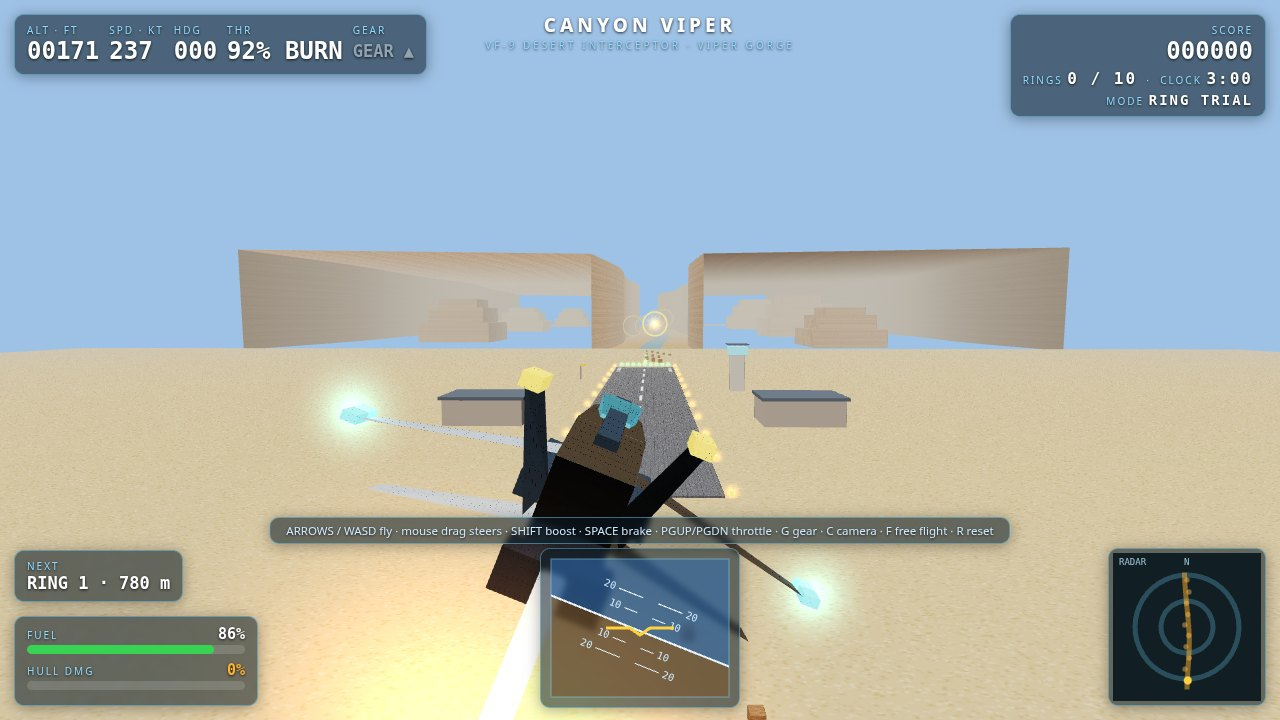
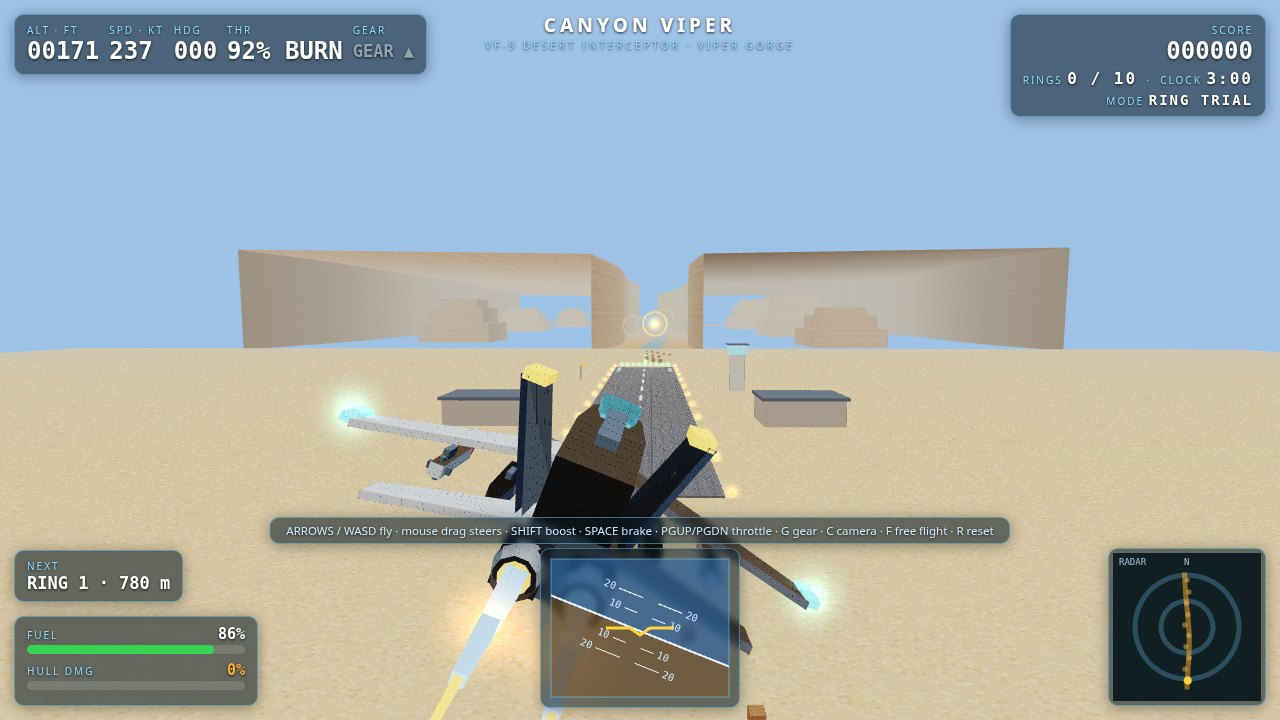
VF-9 geometry pass: thick slab wings, canted fins, nozzle rings, under-wing stores, tight twin plume cones

Changed region(s): [[0.1875, 0.4889, 0.6562, 1.0], [0.5625, 0.8556, 0.5938, 0.9167], [0.25, 0.5194, 0.2812, 0.55]]

diff --git a/game/src/viper-aircraft.js b/game/src/viper-aircraft.js
@@ -6,7 +6,7 @@
 // Metalness/roughness + the procedural metal texture give it a PBR sheen.
 'use strict';
 
-const HULL = [0.85, 0.9, 0.95], TRIM = [0.13, 0.16, 0.2], CYAN = [0.25, 0.95, 1.0];
+const HULL = [0.85, 0.9, 0.95], TRIM = [0.26, 0.31, 0.38], CYAN = [0.25, 0.95, 1.0];
 const GLASS = [0.3, 0.75, 0.95], AMBER = [1.0, 0.62, 0.15];
 
 function buildJet(gl, metalTex) {
@@ -24,21 +24,62 @@ function buildJet(gl, metalTex) {
   // Canopy: tinted glass frustum with emissive instrument spill.
   b.frustum(-3.4, 0.95, 0.5, -1.9, 1.15, 0.72, 0.88, 0.92, GLASS, { rough: 0.08, metal: 0.9, emissive: 0.22 });
   b.frustum(-1.9, 1.15, 0.72, -0.5, 0.8, 0.4, 0.92, 0.8, GLASS, { rough: 0.08, metal: 0.9, emissive: 0.22 });
-  // Wings: swept, slightly drooped; cyan navigation lights ride the tips.
+  // Wings with REAL chord thickness: a slab() is a top face in bright
+  // silver-slate, a darker underside, and bevelled leading/trailing/tip
+  // edges — so from behind the wing reads as solid metal, never a razor.
+  const SLATE = [0.98, 1.0, 1.05], UNDER = [0.32, 0.37, 0.44];
+  const slab = (a, bq, c, d, t, opt) => {
+    const dn = (p) => [p[0], p[1] - t, p[2]];
+    b.quad(a, bq, c, d, SLATE, opt);
+    b.quad(dn(d), dn(c), dn(bq), dn(a), UNDER, opt);
+    b.quad(dn(a), dn(bq), bq, a, SLATE, opt);
+    b.quad(dn(c), dn(d), d, c, SLATE, opt);
+    b.quad(dn(bq), dn(c), c, bq, SLATE, opt);
+  };
   for (const s of [-1, 1]) {
-    b.quad([s * 0.7, -0.05, -0.6], [s * 4.9, -0.5, 1.9], [s * 4.9, -0.42, 2.6], [s * 0.7, 0.05, 0.9], HULL, M);
-    b.quad([s * 0.7, 0.05, 0.9], [s * 4.9, -0.42, 2.6], [s * 4.9, -0.5, 1.9], [s * 0.7, -0.05, -0.6], TRIM, M);
-    b.box(s * 4.95, -0.42, 2.25, 0.34, 0.2, 0.8, CYAN, { emissive: 1.0 });
-    b.halo(s * 5.1, -0.42, 2.25, 1.5, [0.3, 0.9, 1.0]);
-    // Tailplanes + twin canted fins with amber tips.
-    b.quad([s * 0.55, 0.1, 4.6], [s * 2.7, 0.02, 5.9], [s * 2.7, 0.1, 6.4], [s * 0.55, 0.18, 5.6], HULL, M);
-    b.quad([s * 0.62, 0.3, 4.3], [s * 1.15, 2.15, 5.6], [s * 1.3, 2.2, 6.3], [s * 0.72, 0.35, 5.9], TRIM, M);
-    b.box(s * 1.22, 2.2, 5.95, 0.3, 0.22, 0.7, AMBER, { emissive: 0.9 });
+    // Main delta wing (root chord 1.7 m, tip chord 0.9 m, 0.17 m thick).
+    slab([s * 0.7, -0.02, -0.7], [s * 4.9, -0.48, 1.8], [s * 4.9, -0.42, 2.7], [s * 0.7, 0.04, 1.0], 0.17, M);
+    b.box(s * 4.98, -0.45, 2.25, 0.3, 0.18, 0.8, CYAN, { emissive: 1.0 });
+    b.halo(s * 5.1, -0.45, 2.25, 1.1, [0.3, 0.9, 1.0]);
+    // Horizontal tailplane, also a slab.
+    slab([s * 0.55, 0.12, 4.6], [s * 2.75, 0.04, 5.9], [s * 2.75, 0.08, 6.45], [s * 0.55, 0.18, 5.6], 0.12, M);
+    // Twin fins: tapered, canted ~18° outward (top leans away from centre),
+    // built as two faces + a cap so they have thickness from behind.
+    const fin = [[s * 0.60, 0.30, 4.25], [s * 1.06, 2.2, 5.5], [s * 1.28, 2.26, 6.3], [s * 0.72, 0.35, 5.95]];
+    const off = (p) => [p[0] + s * 0.1, p[1], p[2]];
+    b.quad(fin[0], fin[1], fin[2], fin[3], TRIM, M);
+    b.quad(off(fin[3]), off(fin[2]), off(fin[1]), off(fin[0]), TRIM, M);
+    b.quad(fin[1], off(fin[1]), off(fin[2]), fin[2], TRIM, M);
+    b.box(s * 1.19, 2.28, 5.9, 0.34, 0.16, 0.75, AMBER, { emissive: 0.9 });
+    // Under-wing stores: an outboard missile and an inboard drop tank,
+    // authored around the origin then absorbed at their outboard stations.
+    b.box(s * 3.1, -0.72, 1.6, 0.14, 0.3, 0.5, TRIM, M);
+    b.box(s * 1.7, -0.7, 1.5, 0.14, 0.28, 0.5, TRIM, M);
+    const missile = new GeoBuilder();
+    missile.frustum(0.3, 0.3, 0.3, 2.2, 0.3, 0.3, -0.95, -0.95, SLATE, M);
+    missile.frustum(-0.55, 0.04, 0.04, 0.3, 0.3, 0.3, -0.95, -0.95, [0.9, 0.3, 0.15], M); // nose cone, forward
+    missile.box(0, -0.95, 1.95, 0.52, 0.16, 0.1, TRIM, M);   // rear fins
+    missile.box(0, -0.95, 1.95, 0.1, 0.52, 0.16, TRIM, M);
+    b.absorb(missile, s * 3.1, 0, 0);
+    const tank = new GeoBuilder();
+    tank.frustum(-0.15, 0.1, 0.1, 0.5, 0.46, 0.46, -0.92, -0.92, UNDER, M);  // rounded nose
+    tank.frustum(0.5, 0.46, 0.46, 2.4, 0.4, 0.4, -0.92, -0.92, UNDER, M);
+    tank.frustum(2.4, 0.4, 0.4, 2.9, 0.1, 0.1, -0.92, -0.92, UNDER, M);
+    b.absorb(tank, s * 1.7, 0, 0);
   }
   // Intakes under the wing roots.
   for (const s of [-1, 1]) b.box(s * 1.05, -0.55, 0.4, 0.8, 0.55, 3.4, TRIM, M);
-  // Twin burner cans.
-  for (const s of [-1, 1]) b.box(s * 0.42, 0.12, 6.85, 0.55, 0.55, 0.5, [0.1, 0.1, 0.12], { rough: 0.4, metal: 0.8 });
+  // Twin burner cans + circular metallic exhaust nozzles with a hot core.
+  for (const s of [-1, 1]) {
+    b.box(s * 0.42, 0.12, 6.7, 0.6, 0.6, 0.45, [0.1, 0.1, 0.12], { rough: 0.4, metal: 0.8 });
+    const cx = s * 0.42, cy = 0.12, seg = 10;
+    const P = (z, r, a) => [cx + Math.cos(a) * r, cy + Math.sin(a) * r, z];
+    for (let i = 0; i < seg; i++) {
+      const a0 = i / seg * Math.PI * 2, a1 = (i + 1) / seg * Math.PI * 2;
+      b.quad(P(6.85, 0.35, a0), P(6.85, 0.35, a1), P(7.2, 0.28, a1), P(7.2, 0.28, a0), [0.6, 0.64, 0.68], { rough: 0.28, metal: 0.95 });
+      b._tri([cx, cy, 7.18], P(7.18, 0.21, a0), P(7.18, 0.21, a1), [1.0, 0.55, 0.16], { emissive: 0.85 });
+    }
+  }
 
   // Gear is its own mesh: struts + wheels, drawn only when gear is down.
   const g = new GeoBuilder();
@@ -52,17 +93,19 @@ function buildJet(gl, metalTex) {
   return { hull: b.build(gl), gear: g.build(gl), hullHalos: b.halos, tex: metalTex };
 }
 
-// Afterburner plume: nested additive-feel frustums, rebuilt per frame from
-// throttle/boost so the flame breathes. Orange core inside a blue sheath.
+// Afterburner plume: two TIGHT concentric cones per nozzle — a short
+// cyan-blue sheath around a crisp orange core — rebuilt per frame from
+// throttle/boost. Deliberately small: the tail must never sit in a white blob.
 function buildPlume(gl, throttle, boost) {
   const b = new GeoBuilder();
-  const len = 1.1 + throttle * 2.6 + (boost ? 2.6 : 0);
-  const w0 = 0.34, flicker = 0.92 + Math.random() * 0.16;
+  const len = 0.85 + throttle * 1.25 + (boost ? 1.05 : 0);
+  const flicker = 0.94 + Math.random() * 0.12;
   for (const s of [-1, 1]) {
-    const x = s * 0.42;
-    b.frustum(7.05, w0, w0, 7.05 + len * 0.55, w0 * 0.62, w0 * 0.62, 0.12, 0.12, [0.45, 0.65, 1.0], { emissive: 0.85 });
-    b.frustum(7.05, w0 * 0.6, w0 * 0.6, 7.05 + len * flicker, 0.05, 0.05, 0.12, 0.12, [1.0, 0.55, 0.14], { emissive: 1.0 });
-    b.halo(x, 0.12, 7.3 + len * 0.4, 1.6 + throttle, [1.0, 0.55, 0.2]);
+    const plume = new GeoBuilder();
+    plume.frustum(7.18, 0.27, 0.27, 7.18 + len * 0.62, 0.13, 0.13, 0.12, 0.12, [0.38, 0.62, 1.0], { emissive: 0.7 });
+    plume.frustum(7.18, 0.155, 0.155, 7.18 + len * flicker, 0.03, 0.03, 0.12, 0.12, [1.0, 0.6, 0.16], { emissive: 1.0 });
+    plume.halo(0, 0.12, 7.3 + len * 0.3, 0.8, [0.95, 0.5, 0.18]);
+    b.absorb(plume, s * 0.42, 0, 0);
   }
   return { mesh: b.build(gl), halos: b.halos };
 }

diff --git a/game/src/engine3d.js b/game/src/engine3d.js
@@ -143,6 +143,14 @@ class GeoBuilder {
   }
   // A glow sprite anchor: rendered later as an additive billboard (fake bloom).
   halo(x, y, z, size, col) { this.halos.push({ p: [x, y, z], size, col }); }
+  // Merge another builder's geometry with a positional offset — for parts
+  // authored around the origin (frustums) that must sit outboard, e.g. stores.
+  absorb(o, dx, dy, dz) {
+    for (let i = 0; i < o.pos.length; i += 3) this.pos.push(o.pos[i] + dx, o.pos[i + 1] + dy, o.pos[i + 2] + dz);
+    this.col.push(...o.col); this.uv.push(...o.uv); this.mat.push(...o.mat);
+    this._n = this._n || []; if (o._n) this._n.push(...o._n);
+    for (const h of o.halos) this.halos.push({ p: [h.p[0] + dx, h.p[1] + dy, h.p[2] + dz], size: h.size, col: h.col });
+  }
   build(gl) {
     const mk = (arr, itemSize) => {
       const buf = gl.createBuffer();
